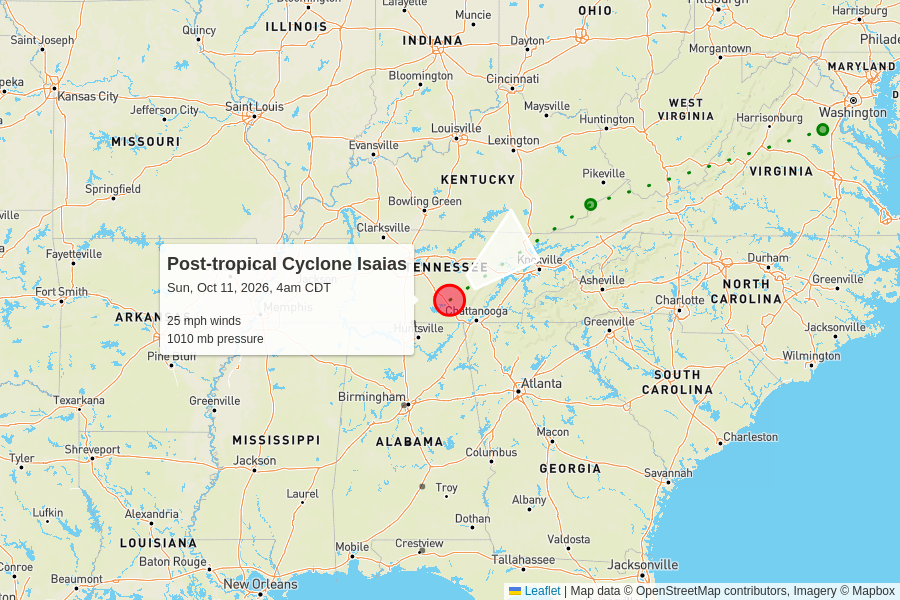
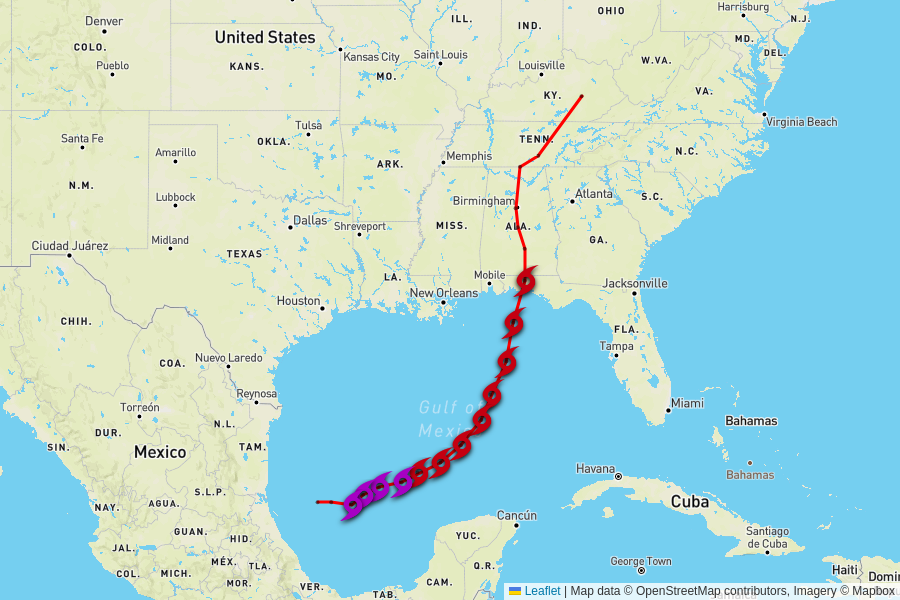
automatic update

diff --git a/docs/2026.html b/docs/2026.html
@@ -45,97 +45,54 @@
       <div class="grid-container">
           <div class="grid-row">
             <script type="text/json" id="storm_data_AL092026">
-              {"pressure":[{"timestamp":"2026-10-06T21:00:00.000Z","value":1007},{"timestamp":"2026-10-07T03:00:00.000Z","value":1005},{"timestamp":"2026-10-07T09:00:00.000Z","value":1004},{"timestamp":"2026-10-07T15:00:00.000Z","value":1000},{"timestamp":"2026-10-07T21:00:00.000Z","value":994},{"timestamp":"2026-10-08T03:00:00.000Z","value":988},{"timestamp":"2026-10-08T09:00:00.000Z","value":979},{"timestamp":"2026-10-08T15:00:00.000Z","value":975},{"timestamp":"2026-10-08T21:00:00.000Z","value":975},{"timestamp":"2026-10-09T03:00:00.000Z","value":969},{"timestamp":"2026-10-09T09:00:00.000Z","value":963},{"timestamp":"2026-10-09T15:00:00.000Z","value":959},{"timestamp":"2026-10-09T21:00:00.000Z","value":959},{"timestamp":"2026-10-10T03:00:00.000Z","value":982},{"timestamp":"2026-10-10T09:00:00.000Z","value":1002},{"timestamp":"2026-10-10T15:00:00.000Z","value":1006},{"timestamp":"2026-10-10T21:00:00.000Z","value":1007},{"timestamp":"2026-10-11T03:00:00.000Z","value":1009},{"timestamp":"2026-10-11T09:00:00.000Z","value":1010}],"wind":[{"timestamp":"2026-10-06T21:00:00.000Z","value":35},{"timestamp":"2026-10-07T03:00:00.000Z","value":35},{"timestamp":"2026-10-07T09:00:00.000Z","value":40},{"timestamp":"2026-10-07T15:00:00.000Z","value":45},{"timestamp":"2026-10-07T21:00:00.000Z","value":65},{"timestamp":"2026-10-08T03:00:00.000Z","value":70},{"timestamp":"2026-10-08T09:00:00.000Z","value":80},{"timestamp":"2026-10-08T15:00:00.000Z","value":85},{"timestamp":"2026-10-08T21:00:00.000Z","value":100},{"timestamp":"2026-10-09T03:00:00.000Z","value":105},{"timestamp":"2026-10-09T09:00:00.000Z","value":110},{"timestamp":"2026-10-09T15:00:00.000Z","value":120},{"timestamp":"2026-10-09T21:00:00.000Z","value":115},{"timestamp":"2026-10-10T03:00:00.000Z","value":90},{"timestamp":"2026-10-10T09:00:00.000Z","value":35},{"timestamp":"2026-10-10T15:00:00.000Z","value":35},{"timestamp":"2026-10-10T21:00:00.000Z","value":30},{"timestamp":"2026-10-11T03:00:00.000Z","value":25},{"timestamp":"2026-10-11T09:00:00.000Z","value":25}],"extents":{"hurricane":[{"timestamp":"2026-10-06T21:00:00.000Z","value":null},{"timestamp":"2026-10-07T03:00:00.000Z","value":null},{"timestamp":"2026-10-07T09:00:00.000Z","value":null},{"timestamp":"2026-10-07T15:00:00.000Z","value":null},{"timestamp":"2026-10-07T21:00:00.000Z","value":null},{"timestamp":"2026-10-08T03:00:00.000Z","value":null},{"timestamp":"2026-10-08T09:00:00.000Z","value":"15"},{"timestamp":"2026-10-08T15:00:00.000Z","value":"15"},{"timestamp":"2026-10-08T21:00:00.000Z","value":"15"},{"timestamp":"2026-10-09T03:00:00.000Z","value":"25"},{"timestamp":"2026-10-09T09:00:00.000Z","value":"30"},{"timestamp":"2026-10-09T15:00:00.000Z","value":"35"},{"timestamp":"2026-10-09T21:00:00.000Z","value":"35"},{"timestamp":"2026-10-10T03:00:00.000Z","value":"35"},{"timestamp":"2026-10-10T09:00:00.000Z","value":null},{"timestamp":"2026-10-10T15:00:00.000Z","value":null},{"timestamp":"2026-10-10T21:00:00.000Z","value":null},{"timestamp":"2026-10-11T03:00:00.000Z","value":null},{"timestamp":"2026-10-11T09:00:00.000Z","value":null}],"tropical":[{"timestamp":"2026-10-06T21:00:00.000Z","value":null},{"timestamp":"2026-10-07T03:00:00.000Z","value":null},{"timestamp":"2026-10-07T09:00:00.000Z","value":null},{"timestamp":"2026-10-07T15:00:00.000Z","value":null},{"timestamp":"2026-10-07T21:00:00.000Z","value":null},{"timestamp":"2026-10-08T03:00:00.000Z","value":null},{"timestamp":"2026-10-08T09:00:00.000Z","value":"90"},{"timestamp":"2026-10-08T15:00:00.000Z","value":"90"},{"timestamp":"2026-10-08T21:00:00.000Z","value":"125"},{"timestamp":"2026-10-09T03:00:00.000Z","value":"125"},{"timestamp":"2026-10-09T09:00:00.000Z","value":"185"},{"timestamp":"2026-10-09T15:00:00.000Z","value":"205"},{"timestamp":"2026-10-09T21:00:00.000Z","value":"205"},{"timestamp":"2026-10-10T03:00:00.000Z","value":"160"},{"timestamp":"2026-10-10T09:00:00.000Z","value":null},{"timestamp":"2026-10-10T15:00:00.000Z","value":null},{"timestamp":"2026-10-10T21:00:00.000Z","value":null},{"timestamp":"2026-10-11T03:00:00.000Z","value":null},{"timestamp":"2026-10-11T09:00:00.000Z","value":null}]}}
-            </script>              <div class="grid-container storm">
-                <div class="grid-row " onClick="toggle('storm_AL092026')">
-                  <h2>
-                    Post-tropical Cyclone Isaias
-                    <div class="updated">
-                      last updated <time datetime="2026-10-11T09:00:00.000Z">2026-10-11T09:00:00.000Z</time>
-                    </div>
-                  </h2>
+              {"pressure":[{"timestamp":"2026-10-06T21:00:00.000Z","value":1007},{"timestamp":"2026-10-07T03:00:00.000Z","value":1005},{"timestamp":"2026-10-07T09:00:00.000Z","value":1004},{"timestamp":"2026-10-07T15:00:00.000Z","value":1000},{"timestamp":"2026-10-07T21:00:00.000Z","value":994},{"timestamp":"2026-10-08T03:00:00.000Z","value":988},{"timestamp":"2026-10-08T09:00:00.000Z","value":979},{"timestamp":"2026-10-08T15:00:00.000Z","value":975},{"timestamp":"2026-10-08T21:00:00.000Z","value":975},{"timestamp":"2026-10-09T03:00:00.000Z","value":969},{"timestamp":"2026-10-09T09:00:00.000Z","value":963},{"timestamp":"2026-10-09T15:00:00.000Z","value":959},{"timestamp":"2026-10-09T21:00:00.000Z","value":959},{"timestamp":"2026-10-10T03:00:00.000Z","value":982},{"timestamp":"2026-10-10T09:00:00.000Z","value":1002},{"timestamp":"2026-10-10T15:00:00.000Z","value":1006},{"timestamp":"2026-10-10T21:00:00.000Z","value":1007},{"timestamp":"2026-10-11T03:00:00.000Z","value":1009},{"timestamp":"2026-10-11T09:00:00.000Z","value":1010},{"timestamp":"2026-10-11T15:00:00.000Z","value":1010}],"wind":[{"timestamp":"2026-10-06T21:00:00.000Z","value":35},{"timestamp":"2026-10-07T03:00:00.000Z","value":35},{"timestamp":"2026-10-07T09:00:00.000Z","value":40},{"timestamp":"2026-10-07T15:00:00.000Z","value":45},{"timestamp":"2026-10-07T21:00:00.000Z","value":65},{"timestamp":"2026-10-08T03:00:00.000Z","value":70},{"timestamp":"2026-10-08T09:00:00.000Z","value":80},{"timestamp":"2026-10-08T15:00:00.000Z","value":85},{"timestamp":"2026-10-08T21:00:00.000Z","value":100},{"timestamp":"2026-10-09T03:00:00.000Z","value":105},{"timestamp":"2026-10-09T09:00:00.000Z","value":110},{"timestamp":"2026-10-09T15:00:00.000Z","value":120},{"timestamp":"2026-10-09T21:00:00.000Z","value":115},{"timestamp":"2026-10-10T03:00:00.000Z","value":90},{"timestamp":"2026-10-10T09:00:00.000Z","value":35},{"timestamp":"2026-10-10T15:00:00.000Z","value":35},{"timestamp":"2026-10-10T21:00:00.000Z","value":30},{"timestamp":"2026-10-11T03:00:00.000Z","value":25},{"timestamp":"2026-10-11T09:00:00.000Z","value":25},{"timestamp":"2026-10-11T15:00:00.000Z","value":25}],"extents":{"hurricane":[{"timestamp":"2026-10-06T21:00:00.000Z","value":null},{"timestamp":"2026-10-07T03:00:00.000Z","value":null},{"timestamp":"2026-10-07T09:00:00.000Z","value":null},{"timestamp":"2026-10-07T15:00:00.000Z","value":null},{"timestamp":"2026-10-07T21:00:00.000Z","value":null},{"timestamp":"2026-10-08T03:00:00.000Z","value":null},{"timestamp":"2026-10-08T09:00:00.000Z","value":"15"},{"timestamp":"2026-10-08T15:00:00.000Z","value":"15"},{"timestamp":"2026-10-08T21:00:00.000Z","value":"15"},{"timestamp":"2026-10-09T03:00:00.000Z","value":"25"},{"timestamp":"2026-10-09T09:00:00.000Z","value":"30"},{"timestamp":"2026-10-09T15:00:00.000Z","value":"35"},{"timestamp":"2026-10-09T21:00:00.000Z","value":"35"},{"timestamp":"2026-10-10T03:00:00.000Z","value":"35"},{"timestamp":"2026-10-10T09:00:00.000Z","value":null},{"timestamp":"2026-10-10T15:00:00.000Z","value":null},{"timestamp":"2026-10-10T21:00:00.000Z","value":null},{"timestamp":"2026-10-11T03:00:00.000Z","value":null},{"timestamp":"2026-10-11T09:00:00.000Z","value":null},{"timestamp":"2026-10-11T15:00:00.000Z","value":null}],"tropical":[{"timestamp":"2026-10-06T21:00:00.000Z","value":null},{"timestamp":"2026-10-07T03:00:00.000Z","value":null},{"timestamp":"2026-10-07T09:00:00.000Z","value":null},{"timestamp":"2026-10-07T15:00:00.000Z","value":null},{"timestamp":"2026-10-07T21:00:00.000Z","value":null},{"timestamp":"2026-10-08T03:00:00.000Z","value":null},{"timestamp":"2026-10-08T09:00:00.000Z","value":"90"},{"timestamp":"2026-10-08T15:00:00.000Z","value":"90"},{"timestamp":"2026-10-08T21:00:00.000Z","value":"125"},{"timestamp":"2026-10-09T03:00:00.000Z","value":"125"},{"timestamp":"2026-10-09T09:00:00.000Z","value":"185"},{"timestamp":"2026-10-09T15:00:00.000Z","value":"205"},{"timestamp":"2026-10-09T21:00:00.000Z","value":"205"},{"timestamp":"2026-10-10T03:00:00.000Z","value":"160"},{"timestamp":"2026-10-10T09:00:00.000Z","value":null},{"timestamp":"2026-10-10T15:00:00.000Z","value":null},{"timestamp":"2026-10-10T21:00:00.000Z","value":null},{"timestamp":"2026-10-11T03:00:00.000Z","value":null},{"timestamp":"2026-10-11T09:00:00.000Z","value":null},{"timestamp":"2026-10-11T15:00:00.000Z","value":null}]}}
+            </script>              <div class="grid-container finished storm">
+                <div class="grid-row" onClick="toggle('storm_AL092026')">
+                  <h2>🏁 Isaias</h2>
                 </div>
-                <div class="grid-row" id="storm_AL092026">
-                  <div class="grid-column">
-                    <table>
-                      <tr>
-                        <th>wind speed</th>
-                        <th>central pressure</th>
-                        <th>movement</th>
-                        <th>data (CSV)</th>
-                        <th>National Hurricane Center</th>
-                      </tr>
-                      <tr>
-                        <td>
-                          25 mph
-                          <br>
-                          0 mph since last update
-                        </td>
-                        <td>
-                          1010 mb
-                          <br>
-                          +1 mb since last update
-                        </td>
-                        <td>
-                          23 mph to the northeast
-                          <br>
-                          <span style="display: inline-block; font-size: 1.5em; transform: rotate(55deg);">↑</span>
-                        </td>
-                        <td>
-                          <a href="https://raw.githubusercontent.com/mgwalker/atlantic-hurricanes/main/data/csv/AL092026.csv">AL092026.csv</a>
-                        </td>
-                        <td>
-                          <a href="https://www.nhc.noaa.gov/archive/2026/ISAIAS.shtml?">NHC advisories</a>
-                        </td>
-                      </tr>
-                      <tr>
-                        <td colspan="5">
-                        </td>
-                      </tr>
-                    </table>
-                    <figure>
-                      <img src="AL092026.png">
-                      <figcaption>
-                        Map data &copy; <a href="https://www.openstreetmap.org/copyright">OpenStreetMap</a> contributors, Imagery &copy; <a href="https://www.mapbox.com/">Mapbox</a> | <a href="https://www.mapbox.com/map-feedback/" target="_blank">Improve this map</a>
-                      </figcaption>
-                    </figure>
-                      <div class="chart-container">
-                        <h3>Maximum sustained winds</h3>
-                        <div>
-                          <canvas id="chart_wind_AL092026"></canvas>
-                        </div>
+                <div id="storm_AL092026" class="grid-column display-none flex-align--center">
+                  <figure>
+                    <img src="AL092026.png">
+                    <figcaption>
+                      Map data &copy; <a href="https://www.openstreetmap.org/copyright">OpenStreetMap</a> contributors, Imagery &copy; <a href="https://www.mapbox.com/">Mapbox</a> | <a href="https://www.mapbox.com/map-feedback/" target="_blank">Improve this map</a>
+                    </figcaption>
+                  </figure>
+                    <div class="chart-container">
+                      <h3>Maximum sustained winds</h3>
+                      <div>
+                        <canvas id="chart_wind_AL092026"></canvas>
                       </div>
-                      <div class="chart-container">
-                        <h3>Minimum central pressure</h3>
-                        <div style="width:100%;">
-                          <canvas id="chart_pressure_AL092026"></canvas>
-                        </div>
+                    </div>
+                    <div class="chart-container">
+                      <h3>Minimum central pressure</h3>
+                      <div style="width:100%;">
+                        <canvas id="chart_pressure_AL092026"></canvas>
                       </div>
-                      <div class="chart-container">
-                        <h3>Storm wind extents</h3>
-                        <div style="width:100%;">
-                          <canvas id="chart_extents_AL092026"></canvas>
-                        </div>
+                    </div>
+                    <div class="chart-container">
+                      <h3>Storm wind extents</h3>
+                      <div style="width:100%;">
+                        <canvas id="chart_extents_AL092026"></canvas>
                       </div>
+                    </div>
+                  
+                  
+                  <script type="module">
+                    const data = JSON.parse(document.getElementById("storm_data_AL092026").textContent);
                     
-                    
-                    <script type="module">
-                      const data = JSON.parse(document.getElementById("storm_data_AL092026").textContent);
-                      
-                      if(data.wind) {
-                        const canvas = document.getElementById("chart_wind_AL092026");
-                        createChart(canvas, data.wind, "mph");
-                      }
-                      if(data.pressure) {
-                        const canvas = document.getElementById("chart_pressure_AL092026");
-                        createChart(canvas, data.pressure, "mb");
-                      }
-                      if(data.extents) {
-                        const canvas = document.getElementById("chart_extents_AL092026");
-                        createExtentChart(canvas, data.extents.tropical, data.extents.hurricane, "miles");
-                      }
-                    </script>
-                  </div>
+                    if(data.wind) {
+                      const canvas = document.getElementById("chart_wind_AL092026");
+                      createChart(canvas, data.wind, "mph");
+                    }
+                    if(data.pressure) {
+                      const canvas = document.getElementById("chart_pressure_AL092026");
+                      createChart(canvas, data.pressure, "mb");
+                    }
+                    if(data.extents) {
+                      const canvas = document.getElementById("chart_extents_AL092026");
+                      createExtentChart(canvas, data.extents.tropical, data.extents.hurricane, "miles");
+                    }
+                  </script>
                 </div>
               </div>          </div>
           <div class="grid-row">

diff --git a/docs/index.html b/docs/index.html
@@ -45,97 +45,54 @@
       <div class="grid-container">
           <div class="grid-row">
             <script type="text/json" id="storm_data_AL092026">
-              {"pressure":[{"timestamp":"2026-10-06T21:00:00.000Z","value":1007},{"timestamp":"2026-10-07T03:00:00.000Z","value":1005},{"timestamp":"2026-10-07T09:00:00.000Z","value":1004},{"timestamp":"2026-10-07T15:00:00.000Z","value":1000},{"timestamp":"2026-10-07T21:00:00.000Z","value":994},{"timestamp":"2026-10-08T03:00:00.000Z","value":988},{"timestamp":"2026-10-08T09:00:00.000Z","value":979},{"timestamp":"2026-10-08T15:00:00.000Z","value":975},{"timestamp":"2026-10-08T21:00:00.000Z","value":975},{"timestamp":"2026-10-09T03:00:00.000Z","value":969},{"timestamp":"2026-10-09T09:00:00.000Z","value":963},{"timestamp":"2026-10-09T15:00:00.000Z","value":959},{"timestamp":"2026-10-09T21:00:00.000Z","value":959},{"timestamp":"2026-10-10T03:00:00.000Z","value":982},{"timestamp":"2026-10-10T09:00:00.000Z","value":1002},{"timestamp":"2026-10-10T15:00:00.000Z","value":1006},{"timestamp":"2026-10-10T21:00:00.000Z","value":1007},{"timestamp":"2026-10-11T03:00:00.000Z","value":1009},{"timestamp":"2026-10-11T09:00:00.000Z","value":1010}],"wind":[{"timestamp":"2026-10-06T21:00:00.000Z","value":35},{"timestamp":"2026-10-07T03:00:00.000Z","value":35},{"timestamp":"2026-10-07T09:00:00.000Z","value":40},{"timestamp":"2026-10-07T15:00:00.000Z","value":45},{"timestamp":"2026-10-07T21:00:00.000Z","value":65},{"timestamp":"2026-10-08T03:00:00.000Z","value":70},{"timestamp":"2026-10-08T09:00:00.000Z","value":80},{"timestamp":"2026-10-08T15:00:00.000Z","value":85},{"timestamp":"2026-10-08T21:00:00.000Z","value":100},{"timestamp":"2026-10-09T03:00:00.000Z","value":105},{"timestamp":"2026-10-09T09:00:00.000Z","value":110},{"timestamp":"2026-10-09T15:00:00.000Z","value":120},{"timestamp":"2026-10-09T21:00:00.000Z","value":115},{"timestamp":"2026-10-10T03:00:00.000Z","value":90},{"timestamp":"2026-10-10T09:00:00.000Z","value":35},{"timestamp":"2026-10-10T15:00:00.000Z","value":35},{"timestamp":"2026-10-10T21:00:00.000Z","value":30},{"timestamp":"2026-10-11T03:00:00.000Z","value":25},{"timestamp":"2026-10-11T09:00:00.000Z","value":25}],"extents":{"hurricane":[{"timestamp":"2026-10-06T21:00:00.000Z","value":null},{"timestamp":"2026-10-07T03:00:00.000Z","value":null},{"timestamp":"2026-10-07T09:00:00.000Z","value":null},{"timestamp":"2026-10-07T15:00:00.000Z","value":null},{"timestamp":"2026-10-07T21:00:00.000Z","value":null},{"timestamp":"2026-10-08T03:00:00.000Z","value":null},{"timestamp":"2026-10-08T09:00:00.000Z","value":"15"},{"timestamp":"2026-10-08T15:00:00.000Z","value":"15"},{"timestamp":"2026-10-08T21:00:00.000Z","value":"15"},{"timestamp":"2026-10-09T03:00:00.000Z","value":"25"},{"timestamp":"2026-10-09T09:00:00.000Z","value":"30"},{"timestamp":"2026-10-09T15:00:00.000Z","value":"35"},{"timestamp":"2026-10-09T21:00:00.000Z","value":"35"},{"timestamp":"2026-10-10T03:00:00.000Z","value":"35"},{"timestamp":"2026-10-10T09:00:00.000Z","value":null},{"timestamp":"2026-10-10T15:00:00.000Z","value":null},{"timestamp":"2026-10-10T21:00:00.000Z","value":null},{"timestamp":"2026-10-11T03:00:00.000Z","value":null},{"timestamp":"2026-10-11T09:00:00.000Z","value":null}],"tropical":[{"timestamp":"2026-10-06T21:00:00.000Z","value":null},{"timestamp":"2026-10-07T03:00:00.000Z","value":null},{"timestamp":"2026-10-07T09:00:00.000Z","value":null},{"timestamp":"2026-10-07T15:00:00.000Z","value":null},{"timestamp":"2026-10-07T21:00:00.000Z","value":null},{"timestamp":"2026-10-08T03:00:00.000Z","value":null},{"timestamp":"2026-10-08T09:00:00.000Z","value":"90"},{"timestamp":"2026-10-08T15:00:00.000Z","value":"90"},{"timestamp":"2026-10-08T21:00:00.000Z","value":"125"},{"timestamp":"2026-10-09T03:00:00.000Z","value":"125"},{"timestamp":"2026-10-09T09:00:00.000Z","value":"185"},{"timestamp":"2026-10-09T15:00:00.000Z","value":"205"},{"timestamp":"2026-10-09T21:00:00.000Z","value":"205"},{"timestamp":"2026-10-10T03:00:00.000Z","value":"160"},{"timestamp":"2026-10-10T09:00:00.000Z","value":null},{"timestamp":"2026-10-10T15:00:00.000Z","value":null},{"timestamp":"2026-10-10T21:00:00.000Z","value":null},{"timestamp":"2026-10-11T03:00:00.000Z","value":null},{"timestamp":"2026-10-11T09:00:00.000Z","value":null}]}}
-            </script>              <div class="grid-container storm">
-                <div class="grid-row " onClick="toggle('storm_AL092026')">
-                  <h2>
-                    Post-tropical Cyclone Isaias
-                    <div class="updated">
-                      last updated <time datetime="2026-10-11T09:00:00.000Z">2026-10-11T09:00:00.000Z</time>
-                    </div>
-                  </h2>
+              {"pressure":[{"timestamp":"2026-10-06T21:00:00.000Z","value":1007},{"timestamp":"2026-10-07T03:00:00.000Z","value":1005},{"timestamp":"2026-10-07T09:00:00.000Z","value":1004},{"timestamp":"2026-10-07T15:00:00.000Z","value":1000},{"timestamp":"2026-10-07T21:00:00.000Z","value":994},{"timestamp":"2026-10-08T03:00:00.000Z","value":988},{"timestamp":"2026-10-08T09:00:00.000Z","value":979},{"timestamp":"2026-10-08T15:00:00.000Z","value":975},{"timestamp":"2026-10-08T21:00:00.000Z","value":975},{"timestamp":"2026-10-09T03:00:00.000Z","value":969},{"timestamp":"2026-10-09T09:00:00.000Z","value":963},{"timestamp":"2026-10-09T15:00:00.000Z","value":959},{"timestamp":"2026-10-09T21:00:00.000Z","value":959},{"timestamp":"2026-10-10T03:00:00.000Z","value":982},{"timestamp":"2026-10-10T09:00:00.000Z","value":1002},{"timestamp":"2026-10-10T15:00:00.000Z","value":1006},{"timestamp":"2026-10-10T21:00:00.000Z","value":1007},{"timestamp":"2026-10-11T03:00:00.000Z","value":1009},{"timestamp":"2026-10-11T09:00:00.000Z","value":1010},{"timestamp":"2026-10-11T15:00:00.000Z","value":1010}],"wind":[{"timestamp":"2026-10-06T21:00:00.000Z","value":35},{"timestamp":"2026-10-07T03:00:00.000Z","value":35},{"timestamp":"2026-10-07T09:00:00.000Z","value":40},{"timestamp":"2026-10-07T15:00:00.000Z","value":45},{"timestamp":"2026-10-07T21:00:00.000Z","value":65},{"timestamp":"2026-10-08T03:00:00.000Z","value":70},{"timestamp":"2026-10-08T09:00:00.000Z","value":80},{"timestamp":"2026-10-08T15:00:00.000Z","value":85},{"timestamp":"2026-10-08T21:00:00.000Z","value":100},{"timestamp":"2026-10-09T03:00:00.000Z","value":105},{"timestamp":"2026-10-09T09:00:00.000Z","value":110},{"timestamp":"2026-10-09T15:00:00.000Z","value":120},{"timestamp":"2026-10-09T21:00:00.000Z","value":115},{"timestamp":"2026-10-10T03:00:00.000Z","value":90},{"timestamp":"2026-10-10T09:00:00.000Z","value":35},{"timestamp":"2026-10-10T15:00:00.000Z","value":35},{"timestamp":"2026-10-10T21:00:00.000Z","value":30},{"timestamp":"2026-10-11T03:00:00.000Z","value":25},{"timestamp":"2026-10-11T09:00:00.000Z","value":25},{"timestamp":"2026-10-11T15:00:00.000Z","value":25}],"extents":{"hurricane":[{"timestamp":"2026-10-06T21:00:00.000Z","value":null},{"timestamp":"2026-10-07T03:00:00.000Z","value":null},{"timestamp":"2026-10-07T09:00:00.000Z","value":null},{"timestamp":"2026-10-07T15:00:00.000Z","value":null},{"timestamp":"2026-10-07T21:00:00.000Z","value":null},{"timestamp":"2026-10-08T03:00:00.000Z","value":null},{"timestamp":"2026-10-08T09:00:00.000Z","value":"15"},{"timestamp":"2026-10-08T15:00:00.000Z","value":"15"},{"timestamp":"2026-10-08T21:00:00.000Z","value":"15"},{"timestamp":"2026-10-09T03:00:00.000Z","value":"25"},{"timestamp":"2026-10-09T09:00:00.000Z","value":"30"},{"timestamp":"2026-10-09T15:00:00.000Z","value":"35"},{"timestamp":"2026-10-09T21:00:00.000Z","value":"35"},{"timestamp":"2026-10-10T03:00:00.000Z","value":"35"},{"timestamp":"2026-10-10T09:00:00.000Z","value":null},{"timestamp":"2026-10-10T15:00:00.000Z","value":null},{"timestamp":"2026-10-10T21:00:00.000Z","value":null},{"timestamp":"2026-10-11T03:00:00.000Z","value":null},{"timestamp":"2026-10-11T09:00:00.000Z","value":null},{"timestamp":"2026-10-11T15:00:00.000Z","value":null}],"tropical":[{"timestamp":"2026-10-06T21:00:00.000Z","value":null},{"timestamp":"2026-10-07T03:00:00.000Z","value":null},{"timestamp":"2026-10-07T09:00:00.000Z","value":null},{"timestamp":"2026-10-07T15:00:00.000Z","value":null},{"timestamp":"2026-10-07T21:00:00.000Z","value":null},{"timestamp":"2026-10-08T03:00:00.000Z","value":null},{"timestamp":"2026-10-08T09:00:00.000Z","value":"90"},{"timestamp":"2026-10-08T15:00:00.000Z","value":"90"},{"timestamp":"2026-10-08T21:00:00.000Z","value":"125"},{"timestamp":"2026-10-09T03:00:00.000Z","value":"125"},{"timestamp":"2026-10-09T09:00:00.000Z","value":"185"},{"timestamp":"2026-10-09T15:00:00.000Z","value":"205"},{"timestamp":"2026-10-09T21:00:00.000Z","value":"205"},{"timestamp":"2026-10-10T03:00:00.000Z","value":"160"},{"timestamp":"2026-10-10T09:00:00.000Z","value":null},{"timestamp":"2026-10-10T15:00:00.000Z","value":null},{"timestamp":"2026-10-10T21:00:00.000Z","value":null},{"timestamp":"2026-10-11T03:00:00.000Z","value":null},{"timestamp":"2026-10-11T09:00:00.000Z","value":null},{"timestamp":"2026-10-11T15:00:00.000Z","value":null}]}}
+            </script>              <div class="grid-container finished storm">
+                <div class="grid-row" onClick="toggle('storm_AL092026')">
+                  <h2>🏁 Isaias</h2>
                 </div>
-                <div class="grid-row" id="storm_AL092026">
-                  <div class="grid-column">
-                    <table>
-                      <tr>
-                        <th>wind speed</th>
-                        <th>central pressure</th>
-                        <th>movement</th>
-                        <th>data (CSV)</th>
-                        <th>National Hurricane Center</th>
-                      </tr>
-                      <tr>
-                        <td>
-                          25 mph
-                          <br>
-                          0 mph since last update
-                        </td>
-                        <td>
-                          1010 mb
-                          <br>
-                          +1 mb since last update
-                        </td>
-                        <td>
-                          23 mph to the northeast
-                          <br>
-                          <span style="display: inline-block; font-size: 1.5em; transform: rotate(55deg);">↑</span>
-                        </td>
-                        <td>
-                          <a href="https://raw.githubusercontent.com/mgwalker/atlantic-hurricanes/main/data/csv/AL092026.csv">AL092026.csv</a>
-                        </td>
-                        <td>
-                          <a href="https://www.nhc.noaa.gov/archive/2026/ISAIAS.shtml?">NHC advisories</a>
-                        </td>
-                      </tr>
-                      <tr>
-                        <td colspan="5">
-                        </td>
-                      </tr>
-                    </table>
-                    <figure>
-                      <img src="AL092026.png">
-                      <figcaption>
-                        Map data &copy; <a href="https://www.openstreetmap.org/copyright">OpenStreetMap</a> contributors, Imagery &copy; <a href="https://www.mapbox.com/">Mapbox</a> | <a href="https://www.mapbox.com/map-feedback/" target="_blank">Improve this map</a>
-                      </figcaption>
-                    </figure>
-                      <div class="chart-container">
-                        <h3>Maximum sustained winds</h3>
-                        <div>
-                          <canvas id="chart_wind_AL092026"></canvas>
-                        </div>
+                <div id="storm_AL092026" class="grid-column display-none flex-align--center">
+                  <figure>
+                    <img src="AL092026.png">
+                    <figcaption>
+                      Map data &copy; <a href="https://www.openstreetmap.org/copyright">OpenStreetMap</a> contributors, Imagery &copy; <a href="https://www.mapbox.com/">Mapbox</a> | <a href="https://www.mapbox.com/map-feedback/" target="_blank">Improve this map</a>
+                    </figcaption>
+                  </figure>
+                    <div class="chart-container">
+                      <h3>Maximum sustained winds</h3>
+                      <div>
+                        <canvas id="chart_wind_AL092026"></canvas>
                       </div>
-                      <div class="chart-container">
-                        <h3>Minimum central pressure</h3>
-                        <div style="width:100%;">
-                          <canvas id="chart_pressure_AL092026"></canvas>
-                        </div>
+                    </div>
+                    <div class="chart-container">
+                      <h3>Minimum central pressure</h3>
+                      <div style="width:100%;">
+                        <canvas id="chart_pressure_AL092026"></canvas>
                       </div>
-                      <div class="chart-container">
-                        <h3>Storm wind extents</h3>
-                        <div style="width:100%;">
-                          <canvas id="chart_extents_AL092026"></canvas>
-                        </div>
+                    </div>
+                    <div class="chart-container">
+                      <h3>Storm wind extents</h3>
+                      <div style="width:100%;">
+                        <canvas id="chart_extents_AL092026"></canvas>
                       </div>
+                    </div>
+                  
+                  
+                  <script type="module">
+                    const data = JSON.parse(document.getElementById("storm_data_AL092026").textContent);
                     
-                    
-                    <script type="module">
-                      const data = JSON.parse(document.getElementById("storm_data_AL092026").textContent);
-                      
-                      if(data.wind) {
-                        const canvas = document.getElementById("chart_wind_AL092026");
-                        createChart(canvas, data.wind, "mph");
-                      }
-                      if(data.pressure) {
-                        const canvas = document.getElementById("chart_pressure_AL092026");
-                        createChart(canvas, data.pressure, "mb");
-                      }
-                      if(data.extents) {
-                        const canvas = document.getElementById("chart_extents_AL092026");
-                        createExtentChart(canvas, data.extents.tropical, data.extents.hurricane, "miles");
-                      }
-                    </script>
-                  </div>
+                    if(data.wind) {
+                      const canvas = document.getElementById("chart_wind_AL092026");
+                      createChart(canvas, data.wind, "mph");
+                    }
+                    if(data.pressure) {
+                      const canvas = document.getElementById("chart_pressure_AL092026");
+                      createChart(canvas, data.pressure, "mb");
+                    }
+                    if(data.extents) {
+                      const canvas = document.getElementById("chart_extents_AL092026");
+                      createExtentChart(canvas, data.extents.tropical, data.extents.hurricane, "miles");
+                    }
+                  </script>
                 </div>
               </div>          </div>
           <div class="grid-row">
